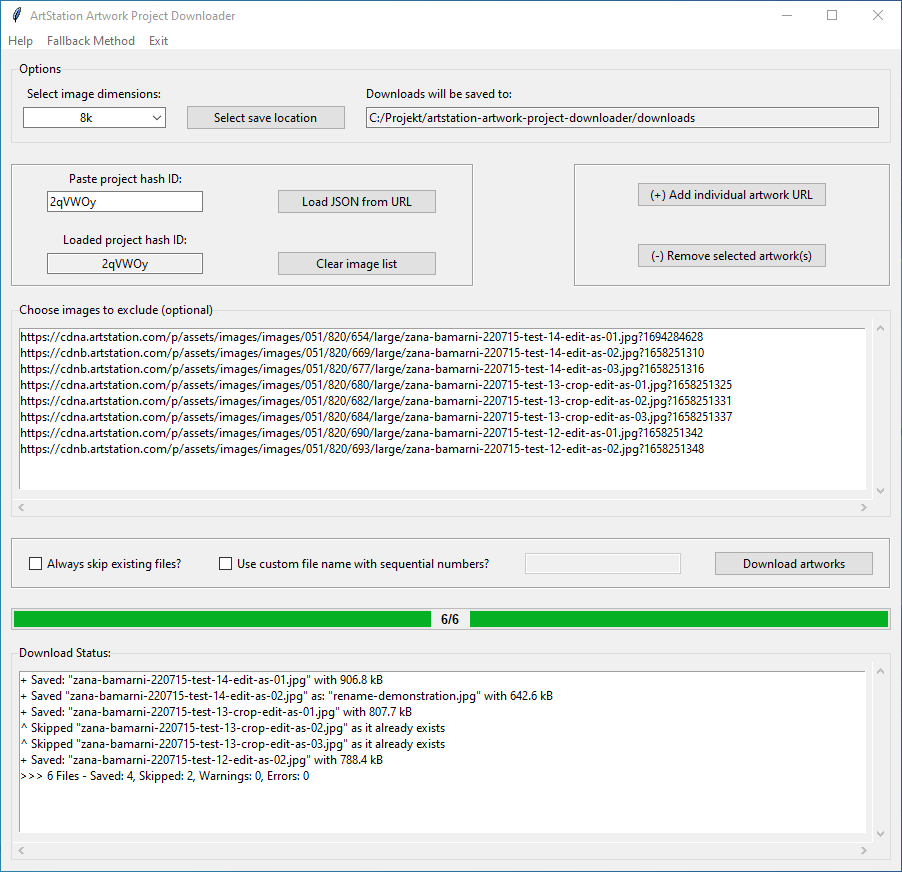
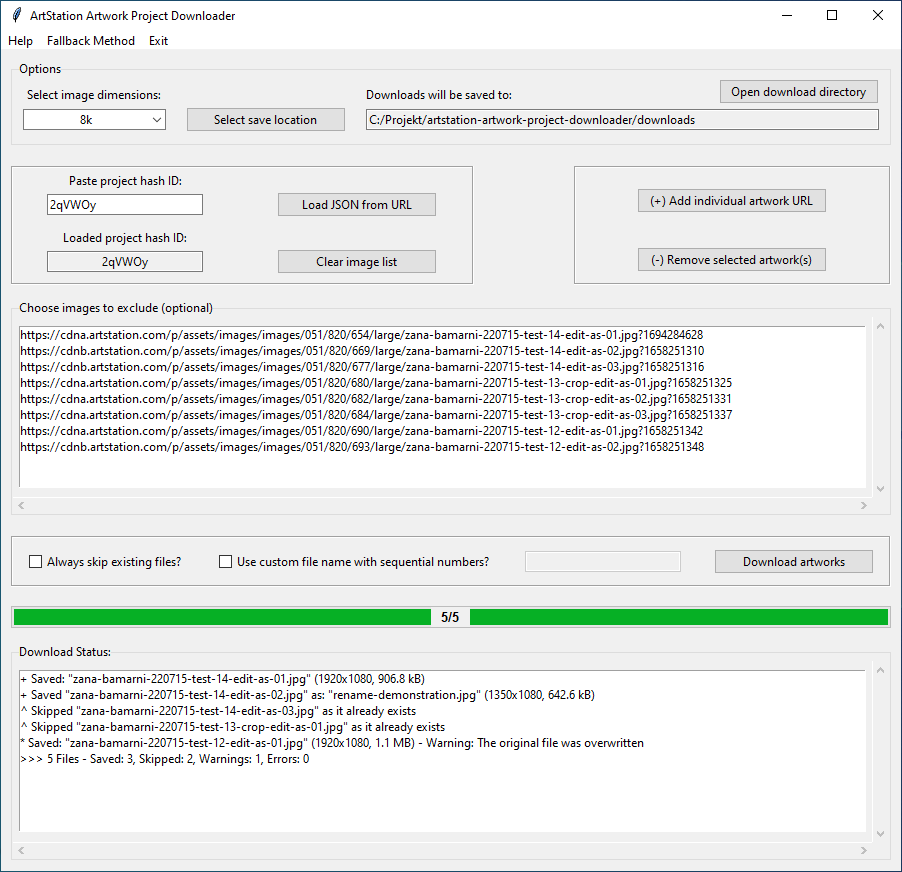
Update README and preview

diff --git a/README.md b/README.md
@@ -31,7 +31,7 @@ While there exist other more sophisticated tools with support for many more imag
 1. Select image dimensions (small, medium, large, 4k, 8k)
 1. Select target directory to download images to
 1. Paste hash ID (found after artstation.com/artwork/*hashid*)
-1. Load JSON data (use Fallback Method if an error is encountered)
+1. Load a project's JSON data (use Fallback Method if an error is encountered)
 1. (Optional) Select images that are to be excluded from download
 1. (Optional) Enter a custom file name (files will be numbered sequentually)
 1. Download images
@@ -48,7 +48,6 @@ While there exist other more sophisticated tools with support for many more imag
 6. Execute the main script using `python main.py`
 
 ## Potential future improvements
-- Add image dimensions to the download log, not just file size
 - Should the project grow further, rework GUI layout
 
 ## Disclaimer
